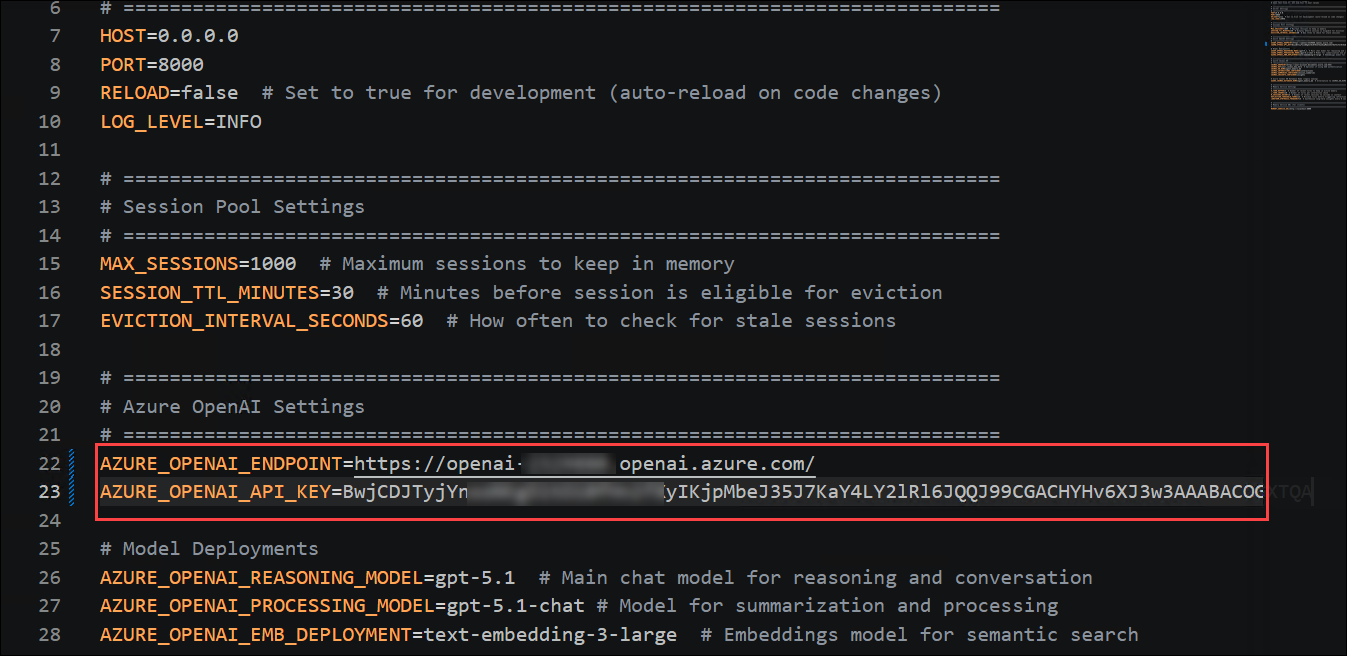
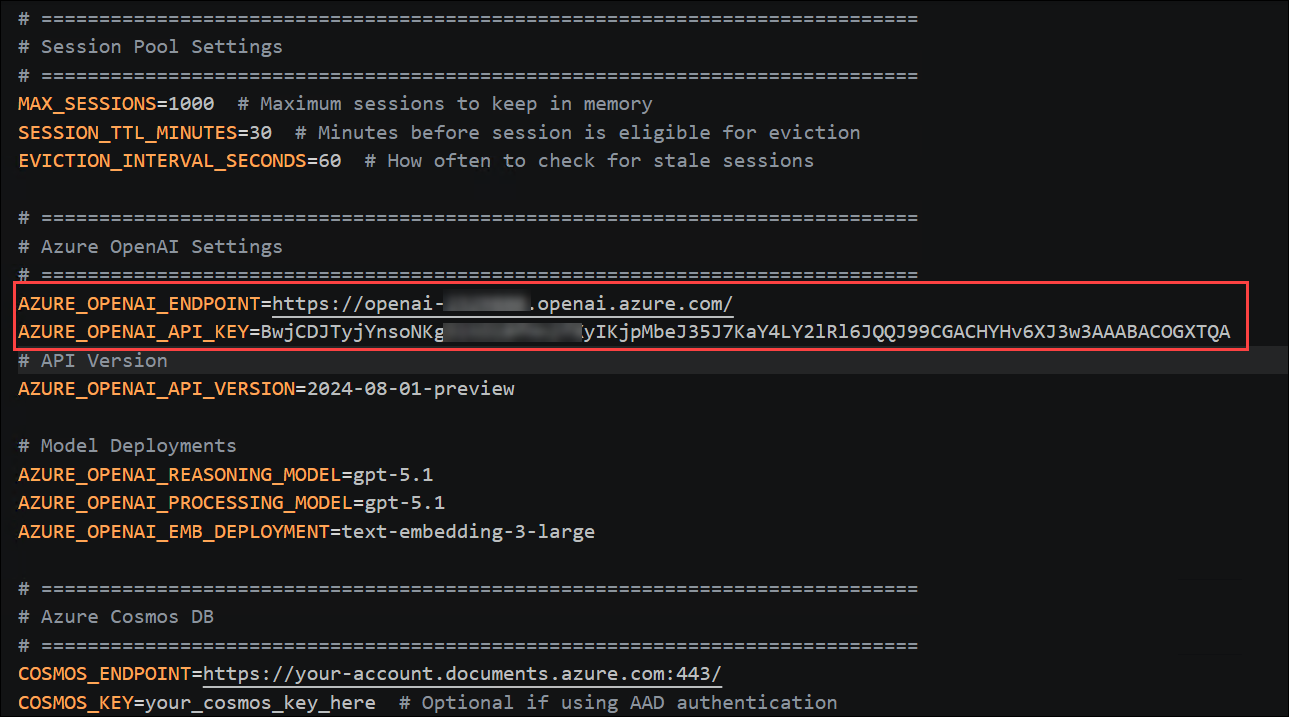
updated

diff --git a/Agent-memory-lab/exercise-2-agent-framework-integration.md b/Agent-memory-lab/exercise-2-agent-framework-integration.md
@@ -22,22 +22,30 @@ You will work entirely from the prepared lab VM and the repository that was stag
 
 In this exercise, you will perform:
 
-- Task 2.1: Study the Integration Pattern
-- Task 2.2: Run the Financial Advisor Demo
-- Task 2.3: Compare Agent-Driven Memory Retrieval
-- Task 2.4: Long-Term Insight Extraction
+- Task 1: Study the Integration Pattern
+- Task 2: Run the Financial Advisor Demo
+- Task 3: Compare Agent-Driven Memory Retrieval
+- Task 4: Long-Term Insight Extraction
 
-## Task 2.1: Study the Integration Pattern
+## Task 1: Study the Integration Pattern
 
 In this task, you will open the Agent Framework notebook and inspect how `AgentMemory` is registered as a context provider inside the Agent Framework, identifying the lifecycle hooks that make memory automatic.
 
-1. In the Explorer pane, navigate to the **demo** folder and open the **02_agent_framework_condensed.ipynb** notebook.
+1. In the Explorer pane, navigate to the **demo** folder, expand **notebooks (1)** and open the **02_agent_framework.ipynb (2)** notebook.
+
+   ![](./Images/ETS211.png)
 
 1. Take a moment to read the first markdown cell, **"Agent Framework + AgentMemory Integration"**. It introduces the three key concepts you will observe in this exercise:
+
+   ![](./Images/ETS212.png)
 
    - **ContextProvider pattern** — memory is passed as `context_providers=[memory]` to the Agent, so no manual `add_turn()` or `store_response()` calls are needed.
    - **Automatic context injection** — `before_run()` is called automatically when the agent processes a query, loading previous conversation context and the long-term profile.
    - **Automatic turn capture** — `after_run()` is called automatically after the agent responds, storing the new turn back into memory.
+
+1. Click **Select Kernel (1)** in the top-right corner and choose **agent-memory(3.14.6)(Python 3.14.6) (2)** if prompted.
+
+   ![](./Images/ETS213.png)
 
 1. Scroll to the first code cell (**Step 1–6: Setup, Configuration & Agent Initialization**) and read it without running it yet. Locate the following integration points:
 

diff --git a/Agent-memory-lab/exercise-1-environment-setup-local-memory.md b/Agent-memory-lab/exercise-1-environment-setup-local-memory.md
@@ -40,7 +40,7 @@ In this task, you will confirm that Python, uv, and Git are installed at the req
 
    ![](./Images/ETS113.png)
 
-1. Navigate to `C:\LabFiles` **(1)**, select the **azure-ai-agents-labs (2)** folder and then click **Select Folder (3)**.
+1. Navigate to `C:\LabFiles` **(1)**, select the **agent-memory (2)** folder and then click **Select Folder (3)**.
 
    ![](./Images/ETS114.png)
 
@@ -212,7 +212,7 @@ In this task, you will install the project dependencies, open the `01_basic_memo
 
       ![](./Images/ETS1313.png)
 
-      >**Note**: To see the full output fo the cell, click on `Scrollable element` .
+      >**Note**: To verify the complete output block, scroll down to the end of the output and click on **scrollable element**.
 
       ![](./Images/ETS1314.png)
 
